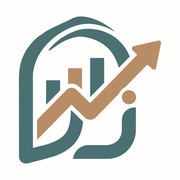
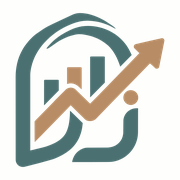
أيقونة المتصفح: الرمز بألوانه فقط، بلا خلفية ولا حدود

Changed region(s): [[0.0833, 0.0556, 0.9167, 0.9444], [0.6389, 0.4167, 0.6667, 0.4444], [0.4444, 0.7222, 0.4722, 0.75]]

diff --git a/Login/index.html b/Login/index.html
@@ -15,8 +15,8 @@
 <meta property="og:image:height" content="600" />
 <meta property="og:url" content="https://gzara.org/Login/" />
 <meta name="twitter:card" content="summary_large_image" />
-<link rel="icon" href="/assets/favicon.png?v=3" sizes="any" />
-<link rel="icon" href="/assets/favicon.svg?v=3" type="image/svg+xml" />
+<link rel="icon" href="/assets/favicon.png?v=4" sizes="any" />
+<link rel="icon" href="/assets/favicon.svg?v=4" type="image/svg+xml" />
 <link rel="preconnect" href="https://fonts.googleapis.com" />
 <link href="https://fonts.googleapis.com/css2?family=IBM+Plex+Sans+Arabic:wght@300;400;500;600;700&family=Cairo:wght@300;400;500;600;700;800;900&family=Tajawal:wght@400;500;700&family=Almarai:wght@400;700&family=Amiri:wght@400;700&family=Reem+Kufi:wght@400;700&display=swap" rel="stylesheet" />
 <script src="https://cdn.sheetjs.com/xlsx-0.20.3/package/dist/xlsx.full.min.js"></script>
@@ -3046,7 +3046,7 @@
   // قسمان: «التقاويم المعتمدة» (قراءة فقط) و«تصميم التقويم الميلادي للعام» (تحرير بحفظ تلقائي ثم اعتماد).
   // المحرّر صفحة مستقلة مضمَّنة كي لا تتداخل تصاميم صفحات التقويم مع تنسيقات اللوحة؛ بياناتها في
   // calendars/<السنة>/pages/* والمعتمد في calendarsApproved/<السنة>
-  var CAL_BUILD = "40";
+  var CAL_BUILD = "41";
   var calUI = { sec: "approved", year: 2027, approved: null, frameKey: "" };
   function calYears(){ var y = new Date().getFullYear(), out = [2027]; for(var i = Math.max(2028, y); i <= Math.max(2029, y + 2); i++) out.push(i); return out; }
   window.__zaraCal = {

diff --git a/bayanat/index.html b/bayanat/index.html
@@ -15,8 +15,8 @@
 <meta property="og:image:height" content="600" />
 <meta property="og:url" content="https://gzara.org/bayanat/" />
 <meta name="twitter:card" content="summary_large_image" />
-<link rel="icon" href="/assets/favicon.png?v=3" sizes="any" />
-<link rel="icon" href="/assets/favicon.svg?v=3" type="image/svg+xml" />
+<link rel="icon" href="/assets/favicon.png?v=4" sizes="any" />
+<link rel="icon" href="/assets/favicon.svg?v=4" type="image/svg+xml" />
 <link rel="preconnect" href="https://fonts.googleapis.com" />
 <link href="https://fonts.googleapis.com/css2?family=IBM+Plex+Sans+Arabic:wght@300;400;500;600;700&family=Cairo:wght@300;400;500;600;700&display=swap" rel="stylesheet" />
 <script src="https://www.gstatic.com/firebasejs/10.14.1/firebase-app-compat.js"></script>

diff --git a/index.html b/index.html
@@ -12,8 +12,8 @@
 <meta property="og:image:height" content="600" />
 <meta property="og:url" content="https://gzara.org/" />
 <meta name="twitter:card" content="summary_large_image" />
-<link rel="icon" href="/assets/favicon.png?v=3" sizes="any" />
-<link rel="icon" href="/assets/favicon.svg?v=3" type="image/svg+xml" />
+<link rel="icon" href="/assets/favicon.png?v=4" sizes="any" />
+<link rel="icon" href="/assets/favicon.svg?v=4" type="image/svg+xml" />
 <link rel="preconnect" href="https://fonts.googleapis.com" />
 <link rel="preconnect" href="https://fonts.gstatic.com" crossorigin />
 <link href="https://fonts.googleapis.com/css2?family=IBM+Plex+Sans+Arabic:wght@300;400;500;600;700&display=swap" rel="stylesheet" />

diff --git a/policy/index.html b/policy/index.html
@@ -15,8 +15,8 @@
 <meta property="og:image:height" content="600" />
 <meta property="og:url" content="https://gzara.org/policy/" />
 <meta name="twitter:card" content="summary_large_image" />
-<link rel="icon" href="/assets/favicon.png?v=3" sizes="any" />
-<link rel="icon" href="/assets/favicon.svg?v=3" type="image/svg+xml" />
+<link rel="icon" href="/assets/favicon.png?v=4" sizes="any" />
+<link rel="icon" href="/assets/favicon.svg?v=4" type="image/svg+xml" />
 <link rel="preconnect" href="https://fonts.googleapis.com" />
 <link href="https://fonts.googleapis.com/css2?family=IBM+Plex+Sans+Arabic:wght@300;400;500;600;700&display=swap" rel="stylesheet" />
 <style>

diff --git a/submit.html b/submit.html
@@ -8,8 +8,8 @@
 <meta http-equiv="refresh" content="0; url=/bayanat/" />
 <meta name="viewport" content="width=device-width, initial-scale=1.0" />
 <title>تسجيل بيانات المناسبات الاجتماعية | جمعية العوامية الخيرية</title>
-<link rel="icon" href="/assets/favicon.png?v=3" sizes="any" />
-<link rel="icon" href="/assets/favicon.svg?v=3" type="image/svg+xml" />
+<link rel="icon" href="/assets/favicon.png?v=4" sizes="any" />
+<link rel="icon" href="/assets/favicon.svg?v=4" type="image/svg+xml" />
 <script>location.replace("/bayanat/" + location.search + location.hash);</script>
 </head>
 <body>

diff --git a/Login/calendar/index.html b/Login/calendar/index.html
@@ -4,8 +4,8 @@
 <meta charset="UTF-8">
 <meta name="viewport" content="width=device-width, initial-scale=1">
 <meta name="robots" content="noindex">
-<link rel="icon" href="/assets/favicon.png?v=3" sizes="any">
-<link rel="icon" href="/assets/favicon.svg?v=3" type="image/svg+xml">
+<link rel="icon" href="/assets/favicon.png?v=4" sizes="any">
+<link rel="icon" href="/assets/favicon.svg?v=4" type="image/svg+xml">
 <title>التقاويم الميلادية | بوابة زارة</title>
 <link rel="preconnect" href="https://fonts.googleapis.com">
 <link rel="preconnect" href="https://fonts.gstatic.com" crossorigin>

diff --git a/calendar-src/build.py b/calendar-src/build.py
@@ -256,7 +256,7 @@ cut('(async function(){if(typeof claude==="undefined"||!claude.use)return;', ' r
  try{DB.doc("approved/y"+YEAR).onSnapshot(sn=>{APPROVED=sn.exists?sn.data():null;renderApprove();renderApBox();if(SEC==="approved"){syncNav();drawPreview()}},()=>{})}catch(_){}
  renderAll()})();''')
 
-doc = '<!DOCTYPE html>\n<html lang="ar" dir="rtl">\n<head>\n<meta charset="UTF-8">\n<meta name="viewport" content="width=device-width, initial-scale=1">\n<meta name="robots" content="noindex">\n<link rel="icon" href="/assets/favicon.png?v=3" sizes="any">\n<link rel="icon" href="/assets/favicon.svg?v=3" type="image/svg+xml">\n' + src
+doc = '<!DOCTYPE html>\n<html lang="ar" dir="rtl">\n<head>\n<meta charset="UTF-8">\n<meta name="viewport" content="width=device-width, initial-scale=1">\n<meta name="robots" content="noindex">\n<link rel="icon" href="/assets/favicon.png?v=4" sizes="any">\n<link rel="icon" href="/assets/favicon.svg?v=4" type="image/svg+xml">\n' + src
 assert "</style>" in doc
 # ورقة خطوط Google تُحمَّل بصلاحية CORS حتى يستطيع «تنزيل صورة الموك أب» قراءة قواعدها وتضمين الخطوط داخل الصورة
 assert doc.count('<link rel="stylesheet" href="https://fonts.googleapis.com') == 1
